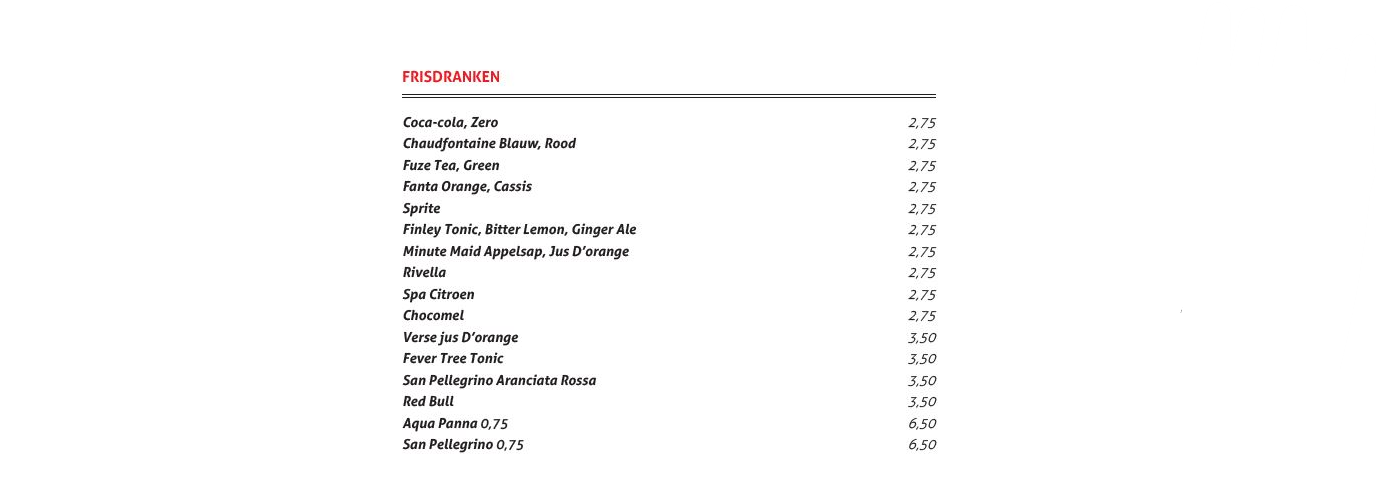
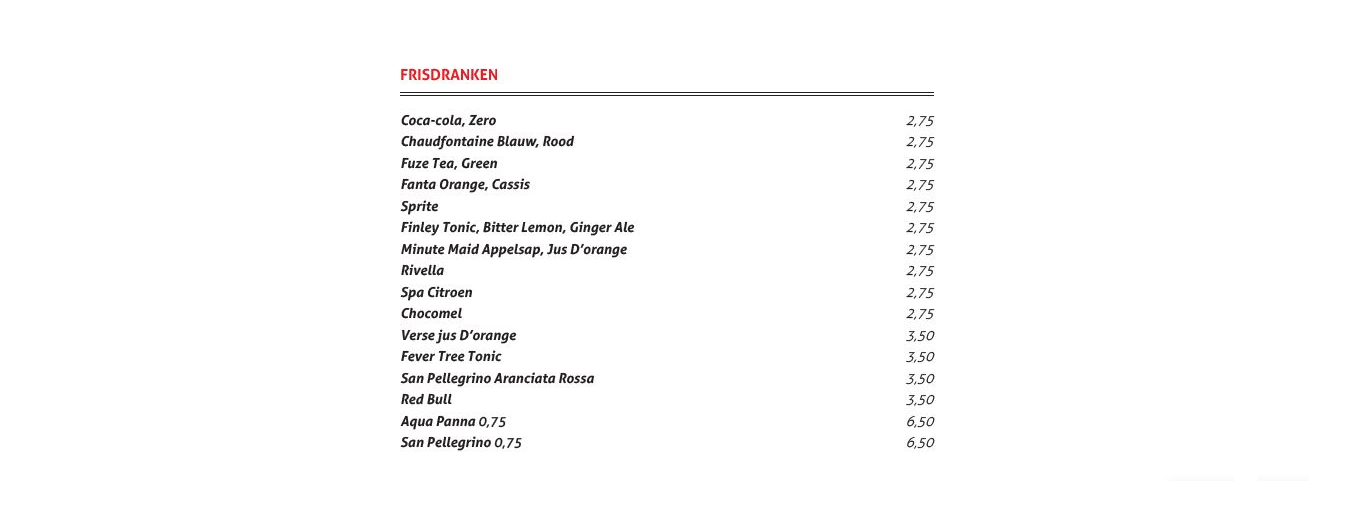
plaatjes header

diff --git a/menukaart.html b/menukaart.html
@@ -31,8 +31,9 @@
     </section>
     <section class="u-clearfix u-grey-5 u-section-2" id="sec-e506">
       <div class="u-clearfix u-sheet u-valign-middle u-sheet-1">
-        <center> <p class="u-text u-text-1"> <img src="menukaart.png"> </p> </center>
-        
+     <center> <p> <class="u-text u-text-1"> <img src="menukaart11.jpg" width="800"  ></p> </center>
+       
+
       </div>
     </section>
     
